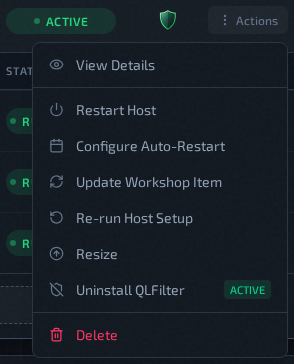
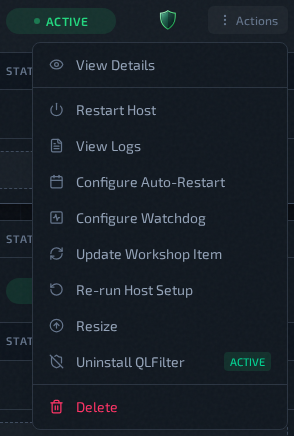
docs(host-logs): document the Host Logs page and View Logs action
#202 added a user-facing feature with no documentation. This adds:

- operations/host-logs.md: what a host's log contains, how it differs from
  Server Logs, both ways to open it, how to read it, and how to diagnose a
  host that landed in Error. Includes screenshots of the actions menu entry,
  the popup, and the standalone page with its host picker.
- An entry in the Host Actions Menu list, and a refreshed screenshot of that
  menu. The previous one predated both View Logs and the watchdog action.
- A Host Logs section on the logs hub and a host-in-Error section on the
  deployment troubleshooting page.
- The mkdocs nav entry, and a note in technical.md alongside the other
  frontend features.

The list of what host logs contain was checked against the code rather than
assumed. They record provisioning, host setup, resizing, deletion, automatic
recovery from Error, and tasks that time out or crash. Restarts, workshop
updates and QLFilter changes go through the shared Ansible runner, which only
ever logs to an instance, so they never reach this log. The page says so,
so nobody goes looking here for a failed QLFilter install.

The Host Actions Menu list also gains a line for Configure Watchdog, since the
refreshed screenshot shows it and #201 shipped without user docs.

Screenshots use RFC 5737 documentation addresses and leave out the
`terraform output -json` block, which is where the host's root password
currently appears in real logs.
[…]

diff --git a/docs/user/operations/host-logs.md b/docs/user/operations/host-logs.md
@@ -1,0 +1,72 @@
+# Host Logs
+
+Host logs record the work QLSM does to build and maintain a host's infrastructure. When a host lands in **Error**, this is where the reason is.
+
+A host's log includes:
+
+- **Provisioning** a cloud host, with the Terraform output
+- **Host setup**, both the first run and every **Re-run Host Setup**, with the Ansible output
+- **Resizing** the host
+- **Deleting** or removing the host
+- **Automatic recovery**, when a host in **Error** becomes reachable again
+- Any of these tasks **timing out or crashing**
+
+Routine actions such as restarts, workshop updates, and QLFilter changes are not recorded here.
+
+## Host Logs vs Server Logs
+
+| | Host Logs | [Server Logs](server-logs.md) |
+| --- | --- | --- |
+| Covers | One host | One instance |
+| Records | QLSM building and maintaining the host | What the game server printed |
+| Stored | In QLSM | On the host, read over SSH |
+| Works when the host is down | Yes | No |
+
+Because host logs are kept by QLSM rather than fetched from the machine, you can still read them when the host is unreachable — which is usually exactly when you need them.
+
+## Open From A Host
+
+Open the host row **Actions** menu on the Servers page and choose **View Logs**.
+
+![Host Actions: View Logs](../images/host-actions-view-logs.png)
+
+The logs open in a popup for that host, scrolled to the newest entry at the bottom.
+
+![Host logs popup](../images/host-logs-modal.png)
+
+## Browse Logs Across Hosts
+
+Open **Settings** → **Host Logs** from the top menu. This page adds a host picker, so you can move between hosts without going back to the Servers page.
+
+![Host Logs page](../images/host-logs-page.png)
+
+## Reading The Log
+
+Every line starts with a timestamp, and each background task opens with a `Task started:` line naming the task. When a task runs Terraform or Ansible, its full output is included under that line — `PLAY RECAP` at the end of an Ansible run shows how many steps changed or failed.
+
+The log keeps growing over the life of the host: each provision, setup run, or restart adds to the end. Scroll up for older activity.
+
+- Use `Ctrl+F` inside the viewer to search.
+- **Refresh** loads anything added since you opened it.
+- The expand button in the top-right corner of the viewer opens the log full screen.
+
+## Diagnosing A Failed Host
+
+1. Open **View Logs** on the host in **Error**.
+2. Scroll to the bottom and find the most recent `Task started:` line — the failure is below it.
+3. Look for a line beginning `Failed`, `Error`, or `Task failed`, and the `Stderr:` output under it.
+
+Some common ones:
+
+- **`Failed to establish SSH connection`** — QLSM could not reach the machine. Check that it is running, that its IP address is correct, and that its SSH port is open to QLSM.
+- **`Ansible setup playbook failed`** — setup reached the host but a step failed. The Ansible output below names the step. After fixing the cause, use **Re-run Host Setup** from the [Host Actions Menu](host-actions-menu.md).
+- **`Terraform executable not found`** or a failed Terraform command — the cloud provisioning step itself failed. The Terraform output below it gives the reason.
+
+When reporting a problem, copy the specific error lines rather than the whole log.
+
+## Related Pages
+
+- [Host Actions Menu](host-actions-menu.md)
+- [Server Logs](server-logs.md)
+- [Use Logs And Chat Logs](logs-and-chat.md)
+- [Deployment Troubleshooting](../help/deployment-troubleshooting.md)

diff --git a/docs/technical.md b/docs/technical.md
@@ -26,6 +26,7 @@ This document outlines the technical stack, development environment setup, key t
     *   CodeMirror 6 integration for editing Quake Live configuration files (`server.cfg`, `mappool.txt`, `access.txt`, `workshop.txt`, custom `.cfg`/`.txt` files, and `.factories` files) with custom language modes and lint gutters where available.
     *   Unified config/plugin/factory file management. Configs and factories use an in-memory state adapter until the form is saved; plugins use server-side draft workspaces so `.py`, `.txt`, and `.so` files can be staged before committing to a preset or instance.
     *   Global RCON (`/global-rcon`): one command dispatched to many instances over a shared Socket.IO fleet session, with per-user persisted target selection (`qlsm-global-rcon-targets-<user_id>`), per-target readiness, and grouped per-target output. Browser modules are `hooks/useFleetRconSession.js`, `hooks/useRconCommandRuns.js`, `hooks/useGlobalRconPreferences.js`, `utils/rconTargets.js`, and `components/rcon/`. Only `running` / `updated` instances with a configured `zmq_rcon_port` are eligible; dispatch is per target and skipped targets are never retried.
+    *   Host Logs (`/host-logs`, `/host-logs/:hostId`): read-only CodeMirror view of `Host.logs` served by `GET /api/hosts/<id>/logs`, as a standalone page with a host picker and as `components/hosts/HostLogsModal.jsx` opened from the host actions menu (state in `hooks/useHostLogsModal.js`). Both views guard their fetch with a request counter so only the newest response may write state, and the modal scopes its scroll-to-bottom to its own editor through a ref. `Host.logs` is unbounded and the endpoint returns it whole.
 * **Task Queue:** Flask-RQ2 + Redis
 * **Automation (Instance Mgmt):** Ansible (executed via direct `os.system` calls to `ansible-playbook` CLI within RQ tasks)
 * **Automation (Host Provisioning):** Terraform (executed via `subprocess` calls to `terraform` CLI within RQ tasks)

diff --git a/docs/user/operations/host-actions-menu.md b/docs/user/operations/host-actions-menu.md
@@ -7,8 +7,10 @@ Open from host row **Actions** in the Servers page.
 ## Actions In This Menu
 
 - **View Details**: opens host details drawer.
+- **[View Logs](host-logs.md)**: opens this host's provisioning and setup log. Start here when a host is in **Error**.
 - **Restart Host**: queues host reboot flow. If the host takes longer than expected to come back and briefly shows **Error**, QLSM keeps probing it and restores it to **Active** automatically once it's reachable again — no manual action needed in that case.
 - **[Configure Auto-Restart](auto-restart.md)**: opens restart schedule modal.
+- **Configure Watchdog**: turns on automatic restart of any instance on this host whose game loop has frozen. Off by default.
 - **[Update Workshop Item](update-workshop-item.md)**: triggers workshop update on this host.
 - **[Install/Uninstall QLFilter](../features/qlfilter.md)**: depends on current QLFilter state.
 - **Re-run Host Setup**: re-applies the host configuration playbook on an existing host.
@@ -65,5 +67,6 @@ After the playbook completes, the host returns to **Active** status.
 
 - [Instance Actions Menu](instance-actions-menu.md)
 - [Update Workshop Item](update-workshop-item.md)
+- [Host Logs](host-logs.md)
 - [Use Logs And Chat Logs](logs-and-chat.md)
 - [Deployment Troubleshooting](../help/deployment-troubleshooting.md)

diff --git a/docs/user/help/deployment-troubleshooting.md b/docs/user/help/deployment-troubleshooting.md
@@ -6,6 +6,14 @@ Use this page when a new instance does not become playable or stable.
 If something isn't working, start by clicking "Re-run host setup" from the [host actions menu](../operations/host-actions-menu.md). If the issue persists, restart the instance. 
 
 
+## Problem: A host is in Error after being added or re-run
+
+1. Open host **Actions** → **View Logs**: [Host Logs](../operations/host-logs.md)
+2. Scroll to the most recent `Task started:` line; the failure is below it.
+3. Fix what the error names, then use **Re-run Host Setup**.
+
+Host logs are stored by QLSM, so they are readable even when the host itself is unreachable.
+
 ## Problem: Instance stuck in deploying/restarting/configuring
 
 1. Wait a bit and refresh.
@@ -68,6 +76,7 @@ See: [Configure Auto-Restart](../operations/auto-restart.md)
 
 ## Related Pages
 
+- [Host Logs](../operations/host-logs.md)
 - [Host Actions Menu](../operations/host-actions-menu.md)
 - [Instance Actions Menu](../operations/instance-actions-menu.md)
 - [Deploy A New Instance](../getting-started/deploy-new-instance.md)

diff --git a/docs/user/operations/logs-and-chat.md b/docs/user/operations/logs-and-chat.md
@@ -12,6 +12,12 @@ From instance **Actions** menu:
 
 Action reference: [Instance Actions Menu](instance-actions-menu.md)
 
+From host **Actions** menu:
+
+- **View Logs** for provisioning and host setup output — the place to look when a whole host is in **Error** rather than a single instance
+
+Action reference: [Host Logs](host-logs.md)
+
 ## Server Logs: Practical Usage
 
 - Start with **Last 500 lines**.
@@ -41,6 +47,7 @@ Action reference: [Instance Actions Menu](instance-actions-menu.md)
 
 ## Related Pages
 
+- [Host Logs](host-logs.md)
 - [Server Logs](server-logs.md)
 - [Chat Logs](chat-logs.md)
 - [MinQLX Logs](minqlx-logs.md)
